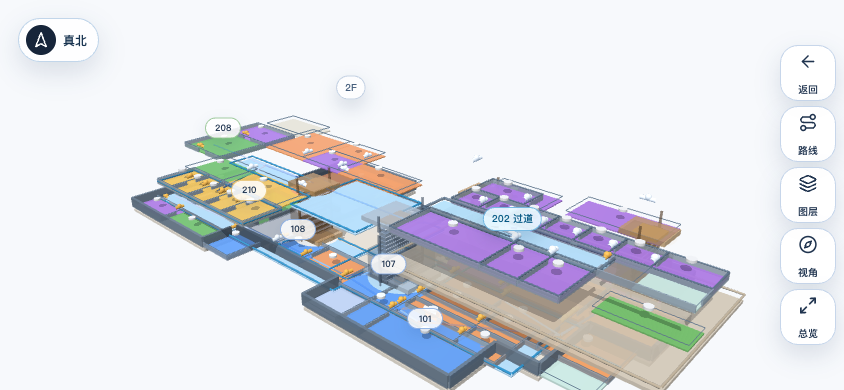
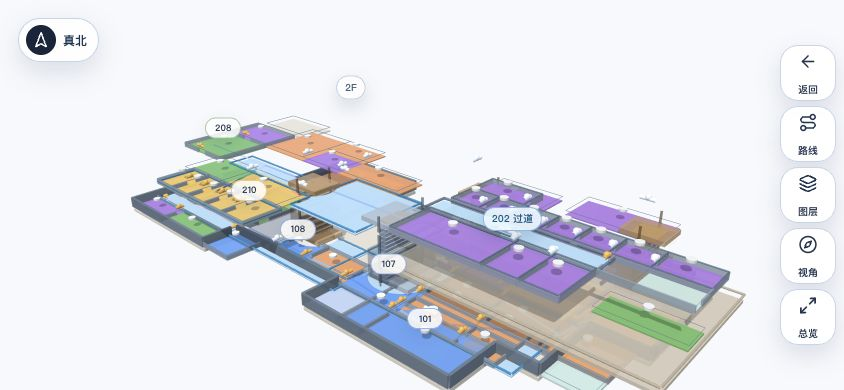
Make the mini program follow the mobile map baseline
The mini program now packages the current mobile map screenshots as its visible release baseline, with transparent native hit zones for rooms, layers, routes, and view controls. This keeps the small-program build self-contained while matching the H5/mobile presentation instead of redrawing stale canvas geometry.

Constraint: Mini program must be self-contained and cannot depend on WebView, localhost, or the Vite dev server.

Constraint: Landscape embedded-display use needs one visible shell page at a time, so primary shell navigation uses reLaunch instead of stacked navigateTo.

Rejected: Visible native canvas overlay | it polluted the current mobile map with stale geometry and duplicated UI.

Rejected: WebView wrapper | it cannot be published as a self-contained mini program and would require an external service.

Confidence: high

Scope-risk: moderate

Directive: Do not replace the packaged mobile map baseline with visible native canvas drawing unless the native renderer is visually revalidated against the current mobile app.

Tested: npm run check:miniprogram; npm run build; rg self-contained scan; WeChat DevTools landscape screenshots for default map, layers, 2F, 202, 104 route, and standby.

Not-tested: WeChat upload/release with a real AppID; physical WeChat device touch gestures.

diff --git a/miniprogram/miniprogram/pages/map/map.js b/miniprogram/miniprogram/pages/map/map.js
@@ -48,16 +48,16 @@ const railTapActions = [
 ];
 const overviewLabelRoomIds = new Set(["101", "104-1F01", "106", "107-core", "108-lobby", "202-5", "208", "210"]);
 const mapImageByLayer = {
-  allFloors: "../../assets/ui/miniprogram-map-main.png?v=live-0531",
-  "1F": "../../assets/ui/miniprogram-map-main.png?v=live-0531",
-  "2F": "../../assets/ui/miniprogram-map-layer-2f.png?v=live-0531",
-  raised202: "../../assets/ui/miniprogram-map-layer-202.png?v=live-0531",
-  exploded: "../../assets/ui/miniprogram-map-layer-exploded.png?v=live-0531",
-  section: "../../assets/ui/miniprogram-map-layer-exploded.png?v=live-0531"
+  allFloors: "../../assets/ui/miniprogram-map-main-mobile-0603.png",
+  "1F": "../../assets/ui/miniprogram-map-main-mobile-0603.png",
+  "2F": "../../assets/ui/miniprogram-map-layer-2f-mobile-0603.png",
+  raised202: "../../assets/ui/miniprogram-map-layer-202-mobile-0603.png",
+  exploded: "../../assets/ui/miniprogram-map-layer-exploded-mobile-0603.png",
+  section: "../../assets/ui/miniprogram-map-layer-exploded-mobile-0603.png"
 };
 const mapImageByTarget = {
-  "104-2F01": "../../assets/ui/miniprogram-map-route-104.png?v=live-0531",
-  "202-5": "../../assets/ui/miniprogram-map-route-202.png?v=live-0531"
+  "104-2F01": "../../assets/ui/miniprogram-map-route-104-mobile-0603.png",
+  "202-5": "../../assets/ui/miniprogram-map-route-202-mobile-0603.png"
 };
 
 const palette = {
@@ -943,64 +943,20 @@ Page({
       width: Math.max(1, fallback.width),
       height: Math.max(1, fallback.height)
     };
-    const finish = (ready = false) => {
-      if (this.data.viewPreset === "overview" && this.transform.zoom === 1) {
-        this.transform = normalizeTransform(this.defaultTransform(this.data.layerMode, this.data.viewPreset));
-      }
-      updateNativeVisualMetrics(this.data.layerMode, this.data.hasRoute);
-      this.setData({
-        ...buildNativeMapVisual(this.data.route, this.data.activeStepIndex || 0, this.data.layerMode),
-        mapImageSrc: mapImageSrc(this.data.layerMode, this.data.route),
-        mapImageTransformStyle: userImageTransformStyle(this.transform),
-        rendererReadyClass: ready ? "renderer-canvas-ready" : ""
-      }, () => this.drawMap());
-    };
-    if (!wx.createSelectorQuery) {
-      dprRef = 1;
-      legacyCanvas = false;
-      canvasRef = null;
-      ctxRef = null;
-      finish(false);
-      return;
+    dprRef = 1;
+    canvasRef = null;
+    ctxRef = null;
+    legacyCanvas = false;
+    if (this.data.viewPreset === "overview" && this.transform.zoom === 1) {
+      this.transform = normalizeTransform(this.defaultTransform(this.data.layerMode, this.data.viewPreset));
     }
-    wx.createSelectorQuery()
-      .in(this)
-      .select("#mapCanvas")
-      .fields({ node: true, size: true })
-      .exec((res) => {
-        const item = res && res[0];
-        if (item && item.node && item.node.getContext) {
-          const windowInfo = wx.getWindowInfo ? wx.getWindowInfo() : {};
-          dprRef = Number(windowInfo.pixelRatio || 1);
-          canvasRef = item.node;
-          const measuredWidth = Number(item.width || fallback.width);
-          const measuredHeight = Number(item.height || fallback.height);
-          if (measuredWidth < 200 || measuredHeight < 120) {
-            dprRef = 1;
-            canvasRef = null;
-            ctxRef = null;
-            legacyCanvas = false;
-            finish(false);
-            return;
-          }
-          canvasBox = {
-            width: Math.max(1, measuredWidth),
-            height: Math.max(1, measuredHeight)
-          };
-          canvasRef.width = Math.round(canvasBox.width * dprRef);
-          canvasRef.height = Math.round(canvasBox.height * dprRef);
-          ctxRef = canvasRef.getContext("2d");
-          legacyCanvas = false;
-          if (ctxRef && ctxRef.scale) ctxRef.scale(dprRef, dprRef);
-          finish(Boolean(ctxRef));
-          return;
-        }
-        dprRef = 1;
-        canvasRef = null;
-        ctxRef = null;
-        legacyCanvas = false;
-        finish(false);
-      });
+    updateNativeVisualMetrics(this.data.layerMode, this.data.hasRoute);
+    this.setData({
+      ...buildNativeMapVisual(this.data.route, this.data.activeStepIndex || 0, this.data.layerMode),
+      mapImageSrc: mapImageSrc(this.data.layerMode, this.data.route),
+      mapImageTransformStyle: userImageTransformStyle(this.transform),
+      rendererReadyClass: "renderer-canvas-ready"
+    }, () => this.drawMap());
   },
 
   setRouteState(next) {

diff --git a/miniprogram/miniprogram/pages/home/home.js b/miniprogram/miniprogram/pages/home/home.js
@@ -67,6 +67,14 @@ function buildMapQuery(options = {}) {
   return query ? `?${query}` : "";
 }
 
+function launchPage(url, onComplete) {
+  wx.reLaunch({
+    url,
+    complete: onComplete,
+    fail: () => wx.showToast({ title: "页面未打开", icon: "none" })
+  });
+}
+
 Page({
   data: {
     mapDirects,
@@ -81,11 +89,7 @@ Page({
     if (this.data.navigating) return;
     this.setData({ navigating: true });
     app.globalData.lastMapDirective = { source: "manual" };
-    wx.navigateTo({
-      url: `/pages/map/map${buildMapQuery()}`,
-      complete: () => this.setData({ navigating: false }),
-      fail: () => wx.showToast({ title: "地图未打开", icon: "none" })
-    });
+    launchPage(`/pages/map/map${buildMapQuery()}`, () => this.setData({ navigating: false }));
   },
 
   openMapDirect(event) {
@@ -100,27 +104,17 @@ Page({
       announce
     };
     app.globalData.lastMapDirective = { source: "miniprogram", request };
-    wx.navigateTo({
-      url: `/pages/map/map${buildMapQuery(request)}`,
-      complete: () => this.setData({ navigating: false }),
-      fail: () => wx.showToast({ title: "地图未打开", icon: "none" })
-    });
+    launchPage(`/pages/map/map${buildMapQuery(request)}`, () => this.setData({ navigating: false }));
   },
 
   openChat() {
     this.setData({ showAppDrawer: false });
-    wx.navigateTo({
-      url: "/pages/chat/chat",
-      fail: () => wx.showToast({ title: "对话未打开", icon: "none" })
-    });
+    launchPage("/pages/chat/chat");
   },
 
   openExpert() {
     this.setData({ showAppDrawer: false });
-    wx.navigateTo({
-      url: "/pages/expert/expert",
-      fail: () => wx.showToast({ title: "专家问答未打开", icon: "none" })
-    });
+    launchPage("/pages/expert/expert");
   },
 
   openAppDrawer() {